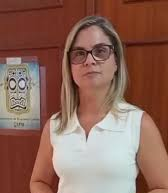
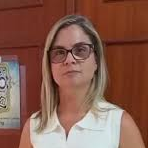
Ajustes nas fotos de palestrantes e troca da imagem no módulo de inscrição.

diff --git a/palestrantes.html b/palestrantes.html
@@ -148,7 +148,7 @@
                 <div class="col-lg-4 templatemo-item-col all att">
                   <div class="meeting-item">
                     <div class="thumb">
-                      <img src="assets/images/meeting-02.jpg" alt=""></a>
+                      <img src="assets/images/Eliana.jpeg" alt=""></a>
                     </div>
                     <div class="down-content">
                       <h4>Dra. Eliana Cristina de Brito Toscano</h4></a>

diff --git a/registration.html b/registration.html
@@ -102,7 +102,7 @@
              target="_blank"
              aria-label="Página de inscrição do evento">
             <img
-              src="assets/images/HEADEREVEN3.3878a35927c44abfa453.webp"
+              src="assets/images/EVEN3HEADER.04a615d20592488ea5c4.webp"
               alt="Even3 page PNIRS"
               class="img-fluid rounded-4 shadow my-4"
             >
